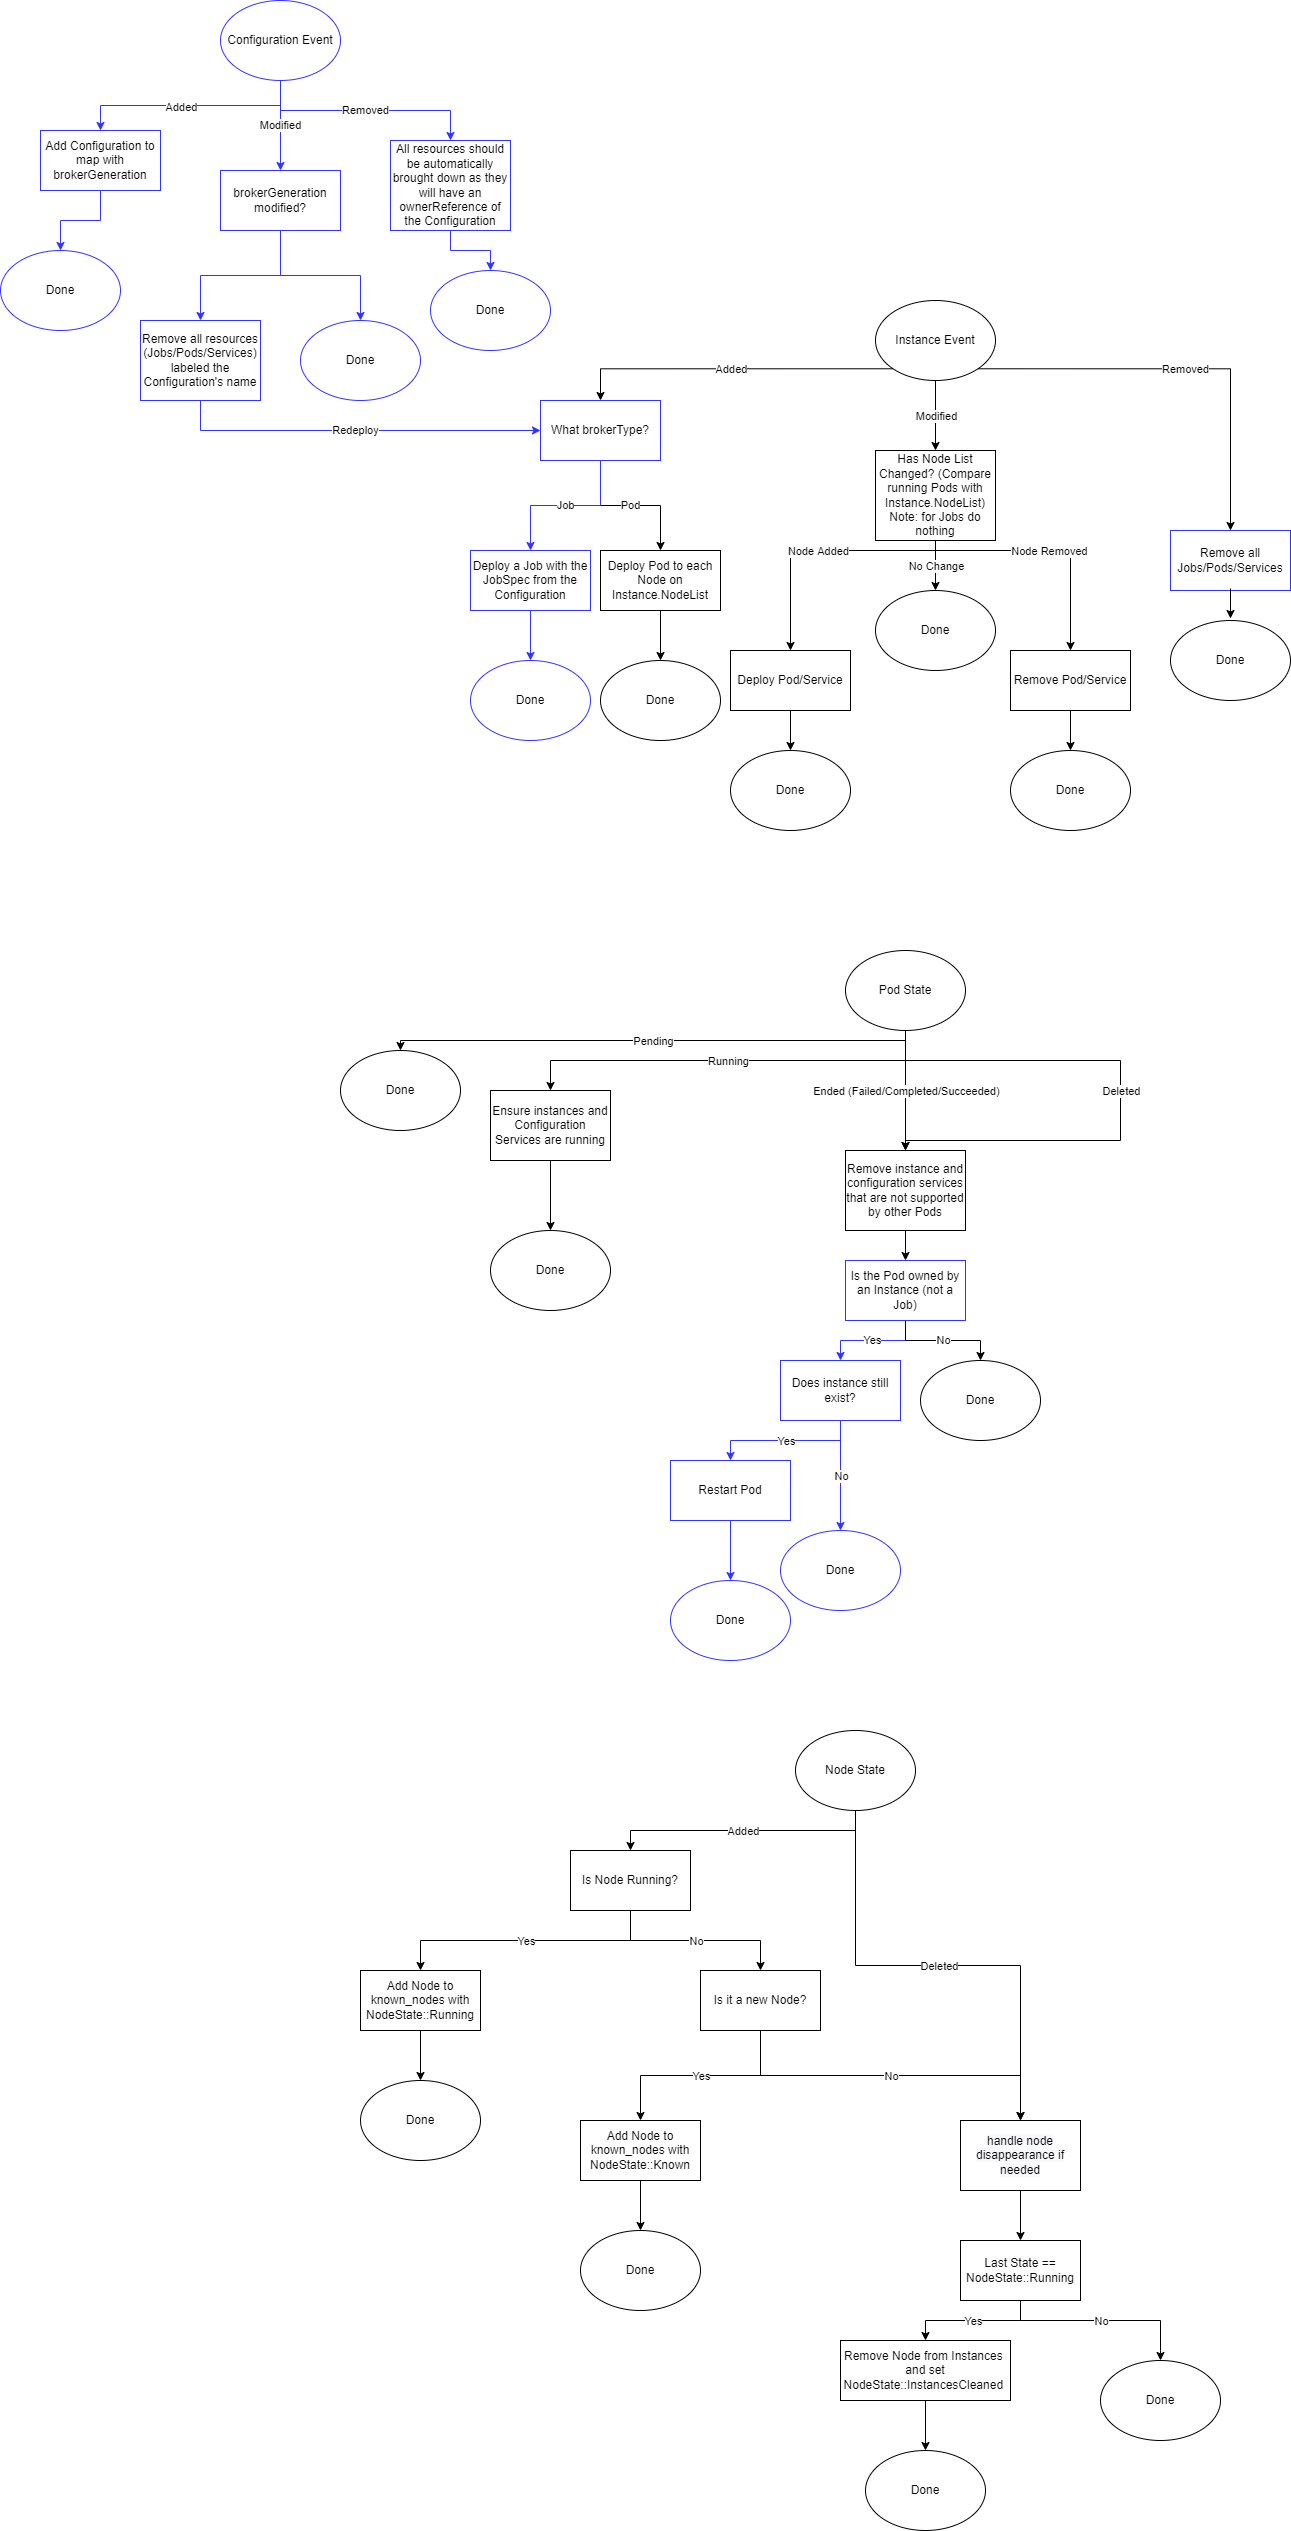
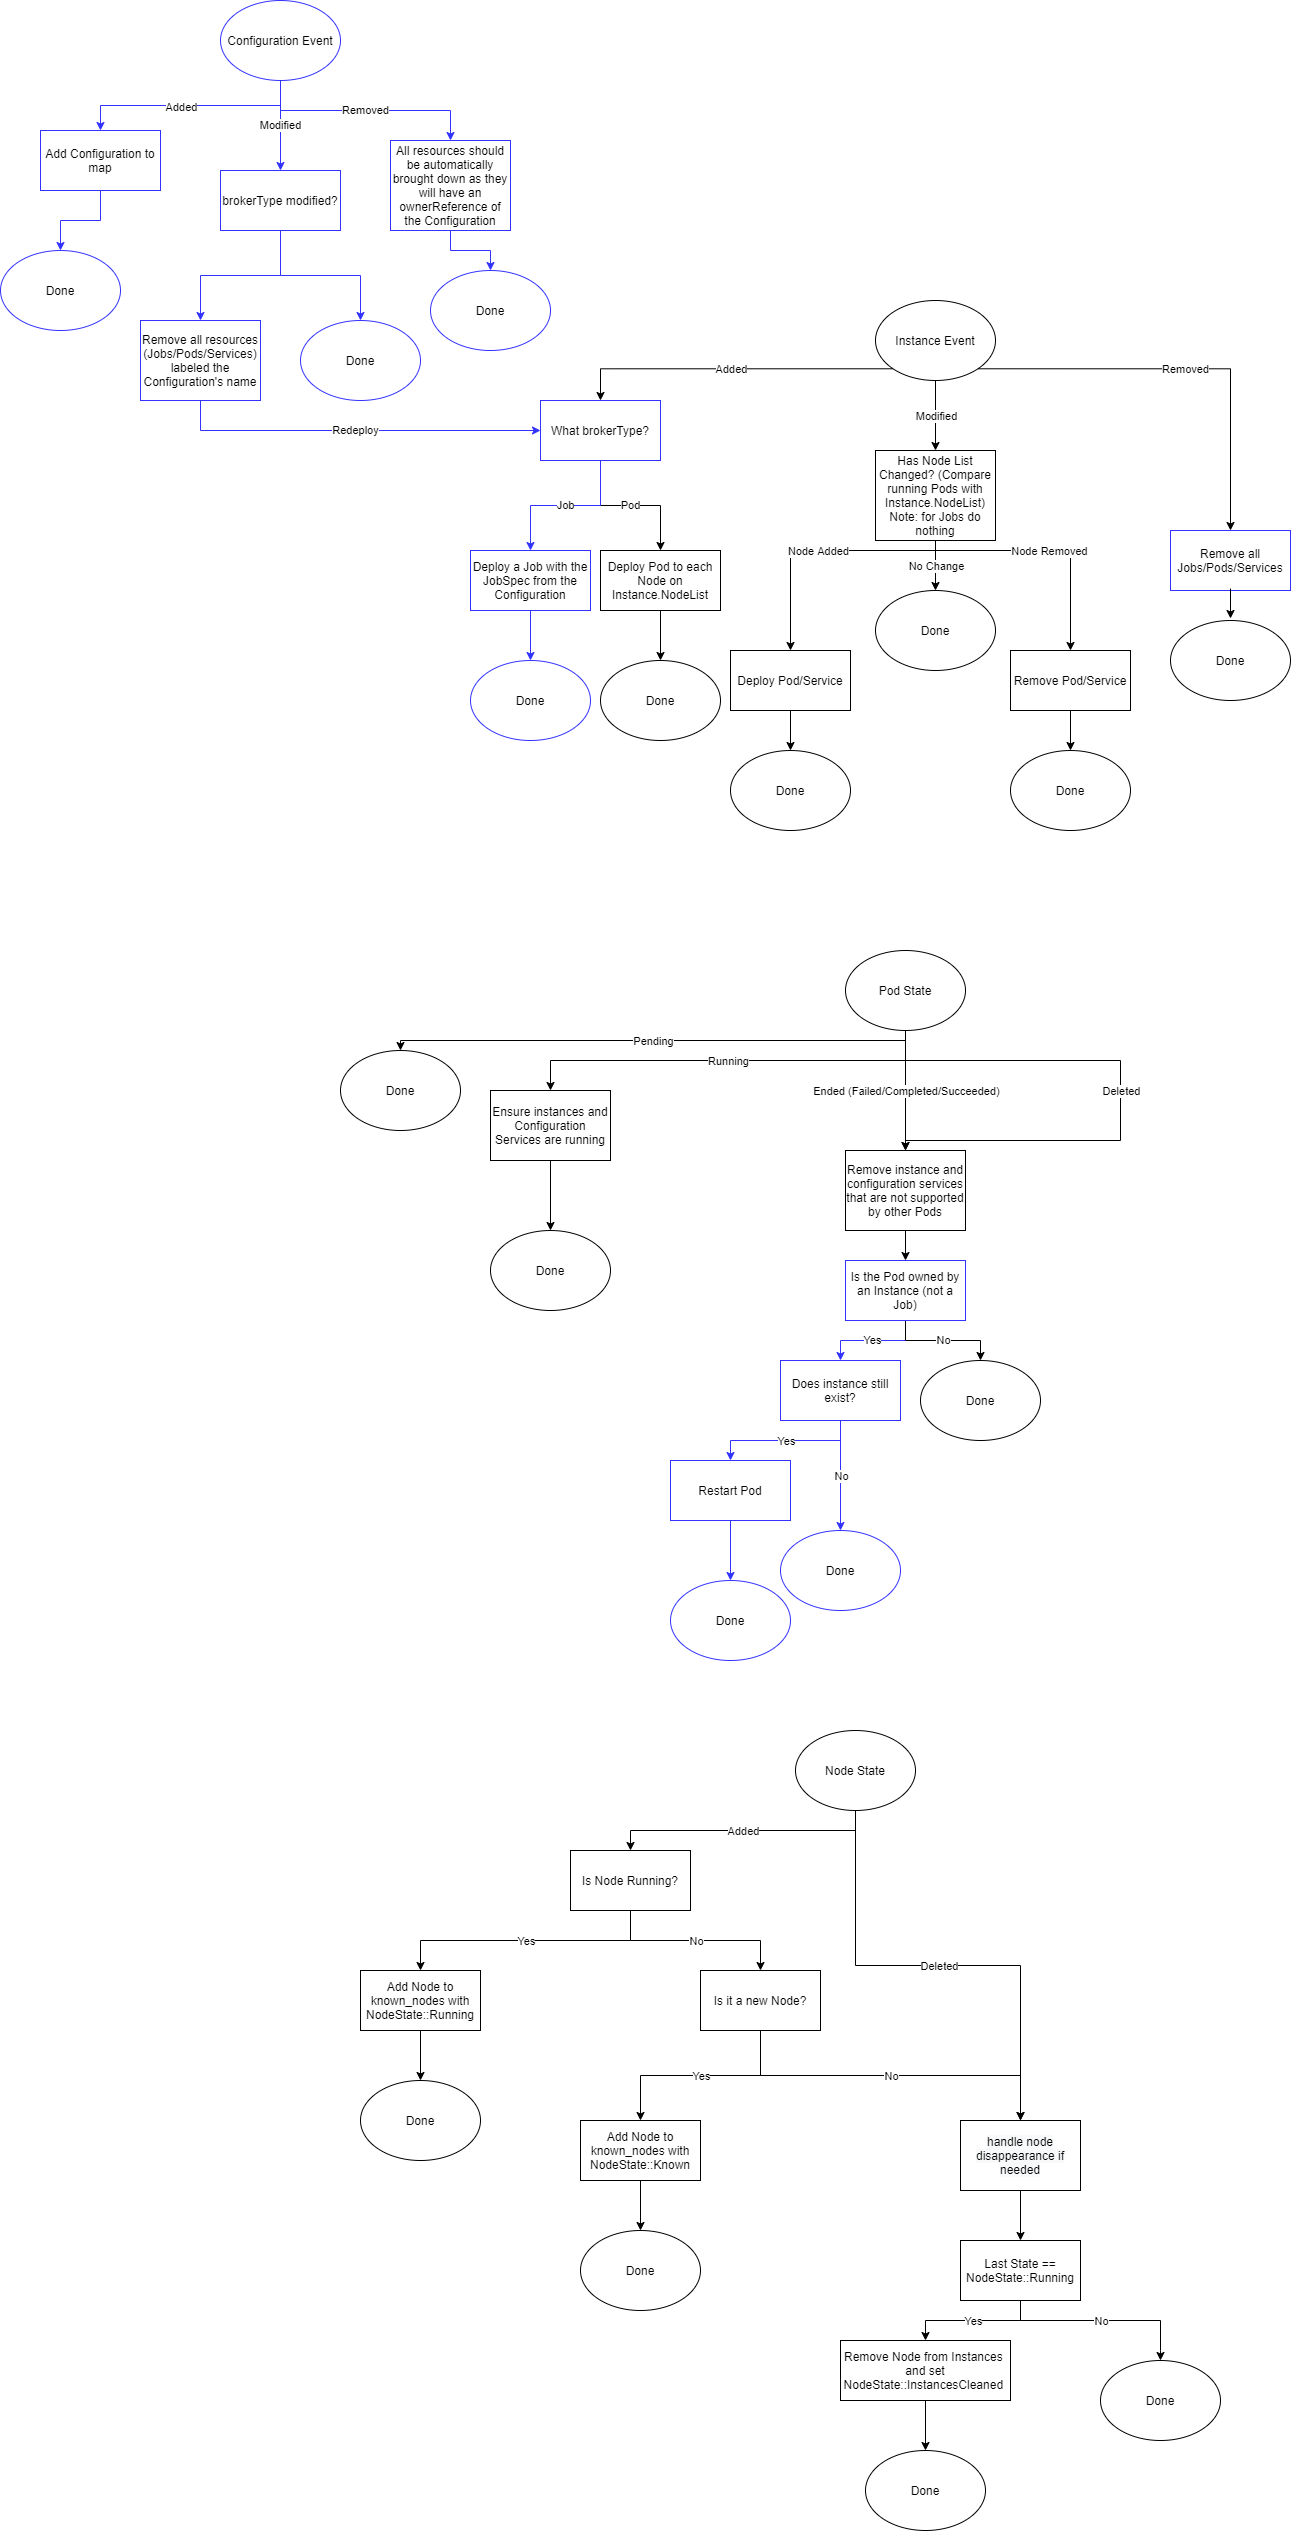
Remove brokerGeneration

diff --git a/proposals/job-brokers.md b/proposals/job-brokers.md
@@ -52,19 +52,18 @@ terminating Pods, would benefit from the enabling retries and parallelism. Imple
 parallelism in the Controller would be redundant work, as these fields are already built into [Kubernetes
 Jobs](https://kubernetes.io/docs/concepts/workloads/controllers/job/). A
 [Job](https://kubernetes.io/docs/concepts/workloads/controllers/job/) is a higher level Kubernetes object that creates
-one or more (by increasing the `parallism` value) identical Pods and will retry until a set number of them successfully
-terminate (`completions`) or a maximum number (`backoffLimit`) fail. The key difference between Jobs and other managed
-Pod deployments (DaemonSets and Deployments) is that Jobs are expected to complete, while the Kubernetes Scheduler will
-continue to redeploy Pods owned by DaemonSets or Deployments. Previously, Akri has had a hands-on approach to deploying
-Pods. Using Jobs will offload scheduling decisions from the Akri Controller to the Kubernetes Scheduler for terminating
-Pods. Non-terminating Pods will Continue to be scheduled by the Controller.
+one or more (by increasing the `parallelism` value) identical Pods and will retry until a set number of them
+successfully terminate (`completions`) or a maximum number (`backoffLimit`) fail. The key difference between Jobs and
+other managed Pod deployments (DaemonSets and Deployments) is that Jobs are expected to complete, while the Kubernetes
+Scheduler will continue to redeploy Pods owned by DaemonSets or Deployments. Previously, Akri has had a hands-on
+approach to deploying Pods. Using Jobs will offload scheduling decisions from the Akri Controller to the Kubernetes
+Scheduler for terminating Pods. Non-terminating Pods will Continue to be scheduled by the Controller.
 
 To support both terminating and non-terminating Pods, changes will be made to the following parts of Akri:
 - The Configuration: The `brokerPod` section of the Configuration will be changed to a `brokerType` enum with a Pod or
-  Job option a `brokerGeneration` field will be added to the Configuration to enable communicating when Jobs or Pods
-  need to be redeployed.
+  Job option.
 - The Controller: Logic to deploy a Pod or Job depending on the `brokerType` of the Configuration.
-- The Agent: Logic to not bring down a Configuration if the `brokerGeneration` changed.
+- The Agent: Logic to not bring down a Configuration if the `brokerType` changed.
 
 ## Add on to Support More Robust Scenarios with Terminating Pods
 One of the main use cases for deploying Pods that terminate (or Jobs) to use IoT devices is device management. In these
@@ -161,17 +160,11 @@ spec:
 > [here](https://github.com/project-akri/akri/blob/v0.7.0/deployment/helm/crds/akri-configuration-crd.yaml).
 
 
-#### Proposed Configuration CRD Additions
-`brokerType` and `brokerGeneration` fields will be added to the Configuration to support Jobs. `brokerType` expands the
-definition of a broker to a Pod or Job and `brokerGeneration` enables the redeployment of Pods, Jobs, and Services
-without re-initiating discovery. Redeployment is mainly only of use in Jobs scenarios (say to do some form of management
-again).
+#### Proposed Configuration CRD Addition
+In the Configuration, the `brokerPodSpec` field will be expanded to a `brokerType` enum expands definition of a broker
+to a Pod or Job.
 - `brokerType`: optional declaration of an object Pod or Job that should be deployed. A maximum of one can be specified.
    If not specified, no Pods/Jobs or services are made. This is the expanded version of `brokerPodSpec`.
-- `brokerGeneration`: version of the `brokerType`. An operator can increment the generation to signal that the
-   deployment type has changed and all workloads should be brought down and new ones spun up. This enables a
-   Configuration to be changed without removing all instances. This also makes it so another set of Jobs can be
-   deployed.
 
 ```yaml
 apiVersion: apiextensions.k8s.io/v1
@@ -211,12 +204,6 @@ spec:
                       x-kubernetes-preserve-unknown-fields: true
                       type: object
                       nullable: true
-                brokerGeneration: # number
-                  type: number
-                brokerPodSpec: # {{PodSpec}}
-                  x-kubernetes-preserve-unknown-fields: true
-                  type: object
-                  nullable: true
                 instanceServiceSpec: # {{ServiceSpec}}
                   x-kubernetes-preserve-unknown-fields: true
                   type: object
@@ -259,6 +246,8 @@ Currently, the Controller has Instance, Pod, and Node watchers.
 1. Pod Watcher: Ensures Instance and Configuration Services are running for Running Pods. Restarts Ended or Deleted Pods
    if their Instance still exists.
 1. Node Watcher: Book keeps which Nodes are known and removes Nodes from Instances when they disappear.
+1. Configuration Watcher: Doesn't gracefully handle Configuration modifications rather deletes and recreates a
+   Configuration upon any modified event.
 
 Current (as ov `v0.7.0`) Controller flow: ![Controller design as of v0.7.0](../media/controller-v0-7-0-flow.png)
 
@@ -266,7 +255,7 @@ Current (as ov `v0.7.0`) Controller flow: ![Controller design as of v0.7.0](../m
 The new design of the Controller will add logic to the Instance Watcher to deploy Jobs and add a Configuration Watcher. 
 1. Instance Watcher: Extended to also create and delete Jobs (not just Pods).  Instance deletion events lead to the
    deletion of Pods/Jobs with that Instance label. 
-1. Configuration Watcher: If `Configuration.brokerGeneration` has been updated, takes down all brokers and services and
+1. Configuration Watcher: If `Configuration.brokerType` has been updated, takes down all brokers and services and
    recreates them as defined in the latest Configuration. Note: could be identical to the previous Configuration.
 
 Proposed Controller flow to support Jobs:
@@ -280,16 +269,16 @@ Just as Akri has one Pod deployment scenario. The implementation will support on
 scenario: deploying a Job to each discovered Instance. No effort will be made to deploy a Job to each Node that can see
 a device. In fact no Node selector will be specified. The Kubernetes Scheduler will choose one of the Nodes that can see
 the Instance (it's Kubernetes resource).
-1. Configuration CRD: Add `brokerType` and `brokerGeneration` sections of the Configuration CRD are needed.
-1. Instance CRD: Make the desired Instance CRD changes to include the `brokerInfo` section.
+1. Configuration CRD: Add `brokerType` to the Configuration CRD.
 1. Controller: Expand instance watcher to support Jobs. When Instances are created, check the `brokerType` of the
    associated Configuration. If it is `brokerType.pod`, proceed as usual. Otherwise, deploy a Job to use the Instance
    device.
-1. Controller: Add a Configuration Watcher that watches for `brokerGeneration` changes and brings down and redeploys
-   Pods and Jobs as needed.
-1. Agent: More precisely handle Configuration updates. Rather than simply deleting and re-apply a changed Configuration,
-   it will check to see if the `brokerGeneration` has changed, indicating that the Controller will handle modifying the
-   deployment
+1. Controller: Add a Configuration Watcher that watches for `brokerType` changes and brings down and redeploys Pods and
+   Jobs as needed.
+1. Agent: More precisely handle Configuration modifications. Rather than simply deleting and re-apply a changed
+   Configuration, it will check to see if the `brokerType` has changed, indicating that the Controller will handle
+   modifying the deployment. This will enable the redeployment of Jobs and modification of Pods without recreating
+   instances and device plugins.
 1. Webhook: Update it to validate the new Configuration
 1. Expand documentation [on requesting Akri resources](https://docs.akri.sh/user-guide/requesting-akri-resources).
 
